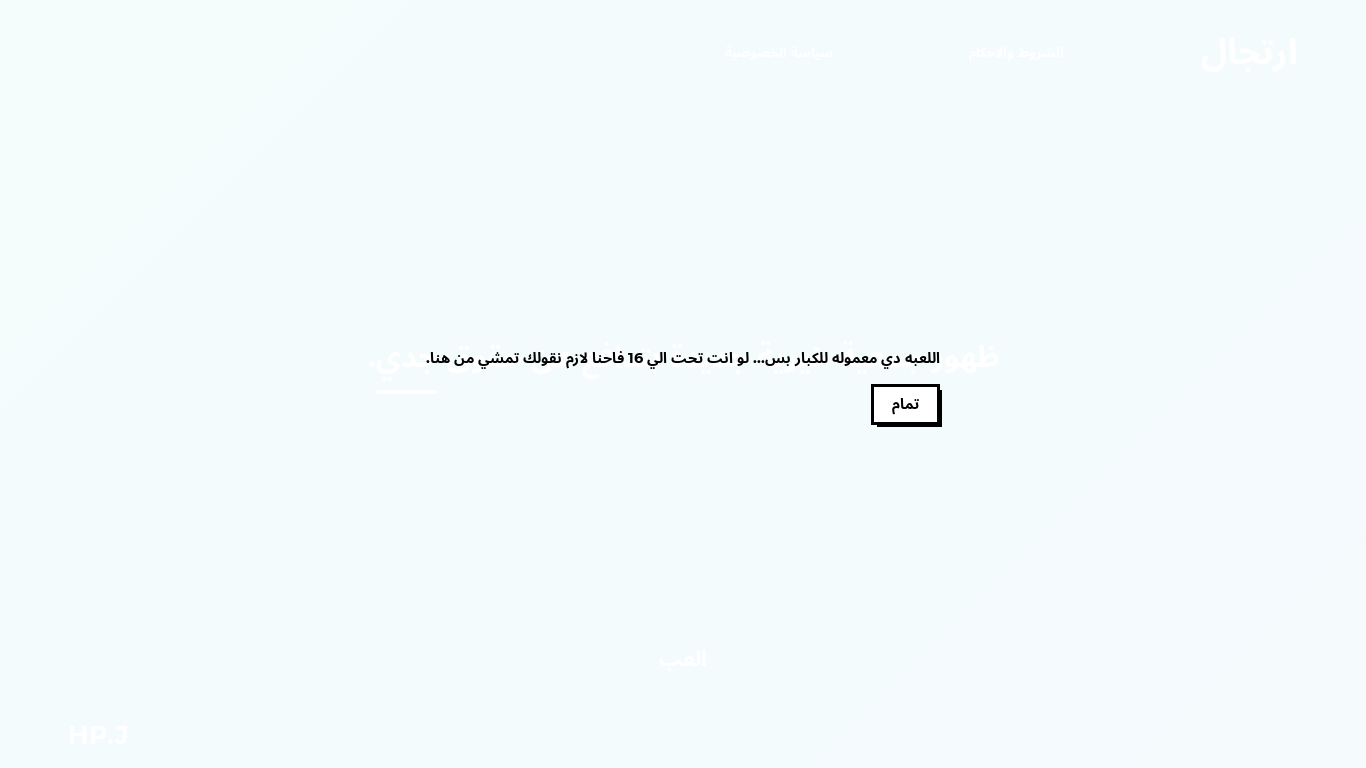
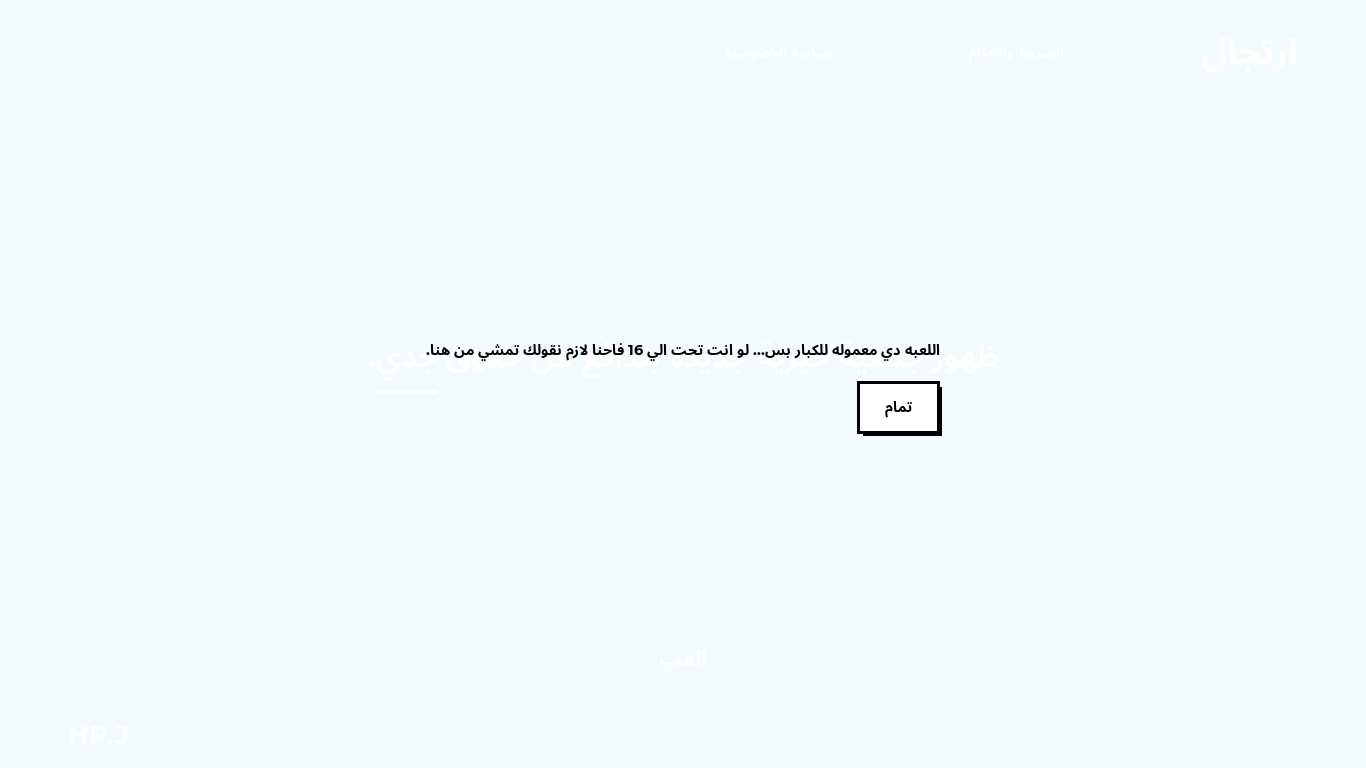
enabled the en-US region on the homepage

Changed region(s): [[0.3075, 0.4375, 0.7072, 0.5938]]

diff --git a/src/screens/homepage.js b/src/screens/homepage.js
@@ -113,7 +113,14 @@ class Homepage extends React.Component
         <span key={ +new Date() } className={ styles.main } style={ { direction: locale.direction } }>
           {
             data?.[this.state.index]?.split('\n')
-              .map((t, i) => <span key={ i } className={ i % 2 ? styles.underline : styles.content }>
+              .map((t, i) => <span
+                key={ i }
+                className={ styles.content }
+                style={ {
+                  paddingBottom: locale.direction === 'ltr' ? '5px' : '15px',
+                  borderBottom: i % 2 ? '4px solid' : undefined
+                } }
+              >
                 { t }
               </span>)
           }
@@ -238,15 +245,9 @@ const styles = createStyle({
 
   content: {
     color: colors.whiteText,
-    paddingBottom: '15px',
     fontSize: 'calc(22px + 0.4vw + 0.4vh)'
   },
   
-  underline: {
-    extend: 'content',
-    borderBottom: '4px solid'
-  },
-
   footer: {
     display: 'flex',
     flexWrap: 'wrap'

diff --git a/src/i18n.js b/src/i18n.js
@@ -3,16 +3,16 @@ import React, { useState, useEffect } from 'react';
 import { setTag } from '@sentry/react';
 
 const locales = [
-  // {
-  //   value: 'united states',
-  //   label: 'United States',
-  //   language: 'en',
-  //   locale: 'en-US',
-  //   direction: 'ltr',
-  //   blank: /[^A-z0-9 /!؟_\-.]/g,
-  //   // eslint-disable-next-line no-undef
-  //   json: require('./i18n/en-US.jsonc').default
-  // },
+  {
+    value: 'united states',
+    label: 'United States',
+    language: 'en',
+    locale: 'en-US',
+    direction: 'ltr',
+    blank: /[^A-z0-9 /!؟_\-.]/g,
+    // eslint-disable-next-line no-undef
+    json: require('./i18n/en-US.jsonc').default
+  },
   {
     value: 'egypt',
     label: 'مصر',

diff --git a/src/components/warning.js b/src/components/warning.js
@@ -71,6 +71,8 @@ const styles = createStyle({
     userSelect: 'none',
     backgroundColor: opacity(colors.whiteBackground, '0.95'),
 
+    textTransform: 'capitalize',
+
     fontSize: 'calc(6px + 0.5vw + 0.5vh)',
     fontWeight: '700',
     fontFamily: '"Montserrat", "Noto Arabic", sans-serif',
@@ -100,8 +102,8 @@ const styles = createStyle({
     backgroundColor: colors.whiteBackground,
     borderColor: colors.blackText,
 
-    padding: '2px 18px',
-    margin: '10px 0 0 0',
+    padding: '8px 25px',
+    margin: '15px 0 0',
 
     ':hover': {
       color: colors.whiteBackground,

diff --git a/src/index.js b/src/index.js
@@ -134,7 +134,7 @@ const ipCheckPromise = async() =>
   // bypass check if on a development or testing environments
   if (process.env.NODE_ENV !== 'production')
   {
-    // setLocale('Egypt', 'ar');
+    setLocale('Egypt', 'ar');
   
     return;
   }
